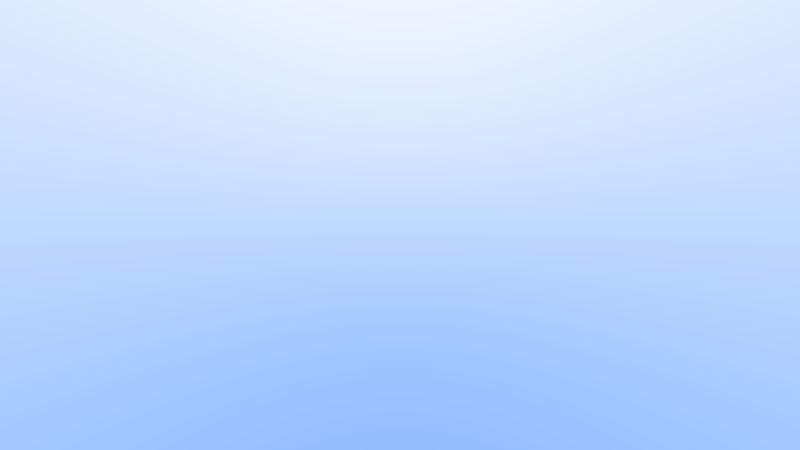
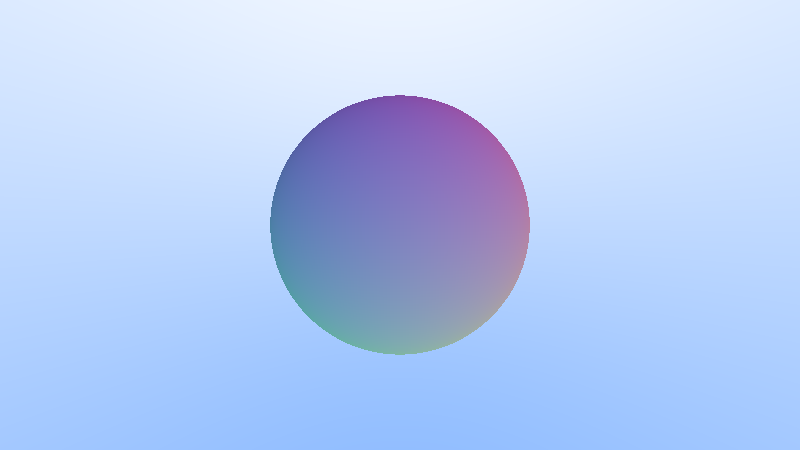
implement barebones raytracer WIP

Changed region(s): [[0.3125, 0.1867, 0.6875, 0.8089]]

diff --git a/examples/random_scene.rs b/examples/random_scene.rs
@@ -1,0 +1,128 @@
+extern crate raytracer;
+extern crate rand;
+extern crate rayon;
+extern crate indicatif;
+
+use std::f64;
+
+use raytracer::structures::vec3::Vec3;
+use raytracer::structures::ray::Ray;
+
+use raytracer::materials::Material;
+use raytracer::materials::Scatterable;
+use raytracer::materials::lambertian::Lambertian;
+use raytracer::materials::metal::Metal;
+use raytracer::materials::dielectric::Dielectric;
+
+use raytracer::objects::sphere::Sphere;
+use raytracer::objects::camera::Camera;
+use raytracer::objects::{Hittable, HittableList, HitRecord};
+
+use raytracer::io::write::gen_ppm;
+
+use rand::Rng;
+
+use rayon::iter::{IntoParallelIterator, ParallelIterator};
+
+use indicatif::{ProgressBar, ProgressStyle};
+
+fn color (r: &Ray, world: &Hittable, depth: u64) -> Vec3 {
+    let mut rec: HitRecord = HitRecord::new();
+    if world.intersect(&r, 0.0001, f64::MAX, &mut rec)  {
+        let mut scattered: Ray = Ray::new(Vec3::new(0.0, 0.0, 0.0), Vec3::new(0.0, 0.0, 0.0));
+        let mut attenuation: Vec3 = Vec3::new(0.0, 0.0, 0.0);
+        if depth > 0 && rec.material().scatter(r, &mut rec, &mut attenuation, &mut scattered) {
+            return attenuation * color(&scattered, world, depth-1);
+        } else {
+            return Vec3::new(0.0, 0.0, 0.0);
+        }
+    } else {
+        let unit_direction: Vec3 = r.direction().unit_vector();
+        let t: f64 = 0.5*(unit_direction.y() + 1.0);
+        return (1.0-t)*Vec3::new(1.0, 1.0, 1.0) + t*Vec3::new(0.5, 0.7, 1.0);
+        // return Vec3::new(0.5, 0.5, 0.5);
+    }
+}
+
+fn random_scene() -> HittableList {
+    let mut rng = rand::thread_rng();
+    
+    let mut list: HittableList = HittableList::new();
+    list.add_sphere(Sphere::new(Vec3::new(0.0, -1000.0, 0.0), 
+        1000.0, Material::Lambertian(Lambertian::new(Vec3::new(0.5, 0.5, 0.5)))));
+
+    for a in -11..11 {
+        for b in -11..11 {
+            let choose_mat: f64 = rng.gen::<f64>();
+            let center: Vec3 = Vec3::new(a as f64 + 0.9 * rng.gen::<f64>(), 
+                0.2, b as f64 + 0.9 * rng.gen::<f64>());
+            if (center - Vec3::new(4.0, 0.2, 0.0)).length() > 0.9 {
+                if choose_mat < 0.8 {  // diffuse
+                    list.add_sphere(Sphere::new(center, 0.2, 
+                        Material::Lambertian(Lambertian::new(Vec3::new(
+                            rng.gen::<f64>()*rng.gen::<f64>(), 
+                            rng.gen::<f64>()*rng.gen::<f64>(), 
+                            rng.gen::<f64>()*rng.gen::<f64>())))));
+                } else if choose_mat < 0.95 {  //metal
+                    list.add_sphere(Sphere::new(center, 0.2, 
+                        Material::Metal(Metal::new(Vec3::new(
+                            0.5 * (1.0 + rng.gen::<f64>()), 
+                            0.5 * (1.0 + rng.gen::<f64>()), 
+                            0.5 * (1.0 + rng.gen::<f64>())),
+                            0.5 * rng.gen::<f64>()))));
+                } else {  // dielectric
+                    list.add_sphere(Sphere::new(center, 0.2, 
+                        Material::Dielectric(Dielectric::new(1.5))));
+                }
+            }
+
+            list.add_sphere(Sphere::new(Vec3::new(0.0, 1.0, 0.0), 1.0, 
+                Material::Dielectric(Dielectric::new(1.5))));
+            list.add_sphere(Sphere::new(Vec3::new(-4.0, 1.0, 0.0), 1.0, 
+                Material::Lambertian(Lambertian::new(Vec3::new(0.4, 0.4, 0.1)))));
+            list.add_sphere(Sphere::new(Vec3::new(4.0, 1.0, 0.0), 1.0, 
+                Material::Metal(Metal::new(Vec3::new(0.7, 0.6, 0.5), 0.0))));
+        }
+    }
+
+    list
+}
+
+fn main() {
+    let filename = "outputs/one_weekend.png".to_string();
+
+    let nx: u64 = 1200;
+    let ny: u64 = 800;
+    let ns: u64 = 1000;
+
+    let cam: Camera = Camera::new(Vec3::new(13.0, 2.0, 3.0), Vec3::new(0.0, 0.0, 0.0), 
+    Vec3::new(0.0, 1.0, 0.0), 20.0, (nx as f64)/(ny as f64), 0.1, 10.0);
+
+    let world: HittableList = random_scene();
+
+    let bar = ProgressBar::new(ny);
+    bar.set_style(ProgressStyle::default_bar().template("[{elapsed} elapsed] {wide_bar:.cyan/white} {percent}% [{eta} remaining] [rendering]"));
+
+    let scene: Vec<Vec<Vec3>> = (0..ny).into_par_iter().map(|y_rev| {
+        let y: f64 = ny as f64 - y_rev as f64 - 1.0;
+        let row: Vec<Vec3> = (0..nx).into_par_iter().map(|x| {
+            let mut color_vector: Vec3 = Vec3::new(0.0, 0.0, 0.0);
+            for _s in 0..ns {
+                let u: f64 = (x as f64 + rand::random::<f64>()) / nx as f64;
+                let v: f64 = (y as f64 + rand::random::<f64>()) / ny as f64;
+                let r: Ray = cam.get_ray(u, v);
+                color_vector = color_vector + color(&r, &world, 10);
+            }
+            color_vector = color_vector/ns as f64;
+            color_vector = 255.99*Vec3::new(color_vector.r().sqrt(), color_vector.g().sqrt(), color_vector.b().sqrt());
+            color_vector.colorize();
+            color_vector
+        }).collect();
+        bar.inc(1);
+        row
+    }).collect();
+
+    bar.finish();
+
+    gen_ppm(scene, filename);
+}

diff --git a/src/hittable/sphere.rs b/src/hittable/sphere.rs
@@ -1,0 +1,51 @@
+use nalgebra::{Dot, Norm};
+
+use crate::Vec3;
+use crate::Vec;
+use super::{Hittable, HitRecord};
+
+use crate::ray::Ray;
+use crate::Float;
+
+#[derive(Copy, Clone)]
+pub struct Sphere {
+    pub center: Vec3<Float>,
+    pub radius: Float,
+    pub color: Vec3<Float>
+}
+
+impl Sphere {
+    fn center(&self) -> &Vec3<Float> {&self.center}
+}
+
+impl Hittable for Sphere {
+    fn hit_time(&self, ray: &Ray) -> Option<HitRecord> {
+        // TODO: return time/None, later keep track of shortest collision time for ray
+        // and also keep track of shortest collision Hittable. Then only calc
+        // normal for shortest
+
+        // CHECK: do I need t min t max and other root?
+        let oc = *ray.origin() - self.center;
+        let dir2 = ray.dir().sqnorm();
+        let proj = oc.dot(ray.dir());
+        let c = oc.sqnorm() - self.radius * self.radius;
+        let discriminant = proj * proj - dir2 * c;
+        if discriminant < 0. {
+            return None;
+        } else {
+            let t = -(proj + discriminant.sqrt()) / dir2;
+            return Some(HitRecord{
+                pos: ray.at(t),
+                normal: None,
+                time: t,
+                ray: *ray,
+            })
+        }
+    }
+
+    fn compute_normal(&self, mut hit: &mut HitRecord) {
+        let outward_normal = (hit.pos - self.center) / self.radius;
+        let is_internal = hit.ray.dir().dot(&outward_normal) < 0.;
+        hit.normal = if is_internal { Some(outward_normal) } else { Some(-outward_normal) };
+    }
+}

diff --git a/src/camera.rs b/src/camera.rs
@@ -1,0 +1,49 @@
+use nalgebra::{Cross, Norm};
+
+use crate::Float;
+use crate::Vec3;
+use std::f64::consts::PI;
+
+pub struct Camera {
+    lower_left_corner: Vec3<Float>,
+    horizontal: Vec3<Float>,
+    vertical: Vec3<Float>,
+    origin: Vec3<Float>,
+    lens_radius: f64,
+
+    u: Vec3<Float>,
+    v: Vec3<Float>,
+    w: Vec3<Float>,
+}
+
+impl Camera {
+    pub fn new(lookfrom: Vec3<Float>, lookat: Vec3<Float>, vup: Vec3<Float>, vfov: Float,
+            aspect: Float, aperture: Float, focus_dist: Float) -> Camera {
+
+        let lens_radius = aperture/2.0;
+        let theta = vfov * PI; 
+        let half_height = (theta/2.0).tan();
+        let half_width = aspect * half_height;
+
+        let origin = lookfrom;
+
+        let w = (lookfrom - lookat).normalize();
+        let u = vup.cross(&w).normalize();
+        let v = w.cross(&u);
+
+        let lower_left_corner = origin - focus_dist * (half_width * u + half_height * v + w);
+        let horizontal = 2.0 * half_width * focus_dist * u;
+        let vertical = 2.0 * half_height * focus_dist * v;
+
+        Camera {
+            lower_left_corner : lower_left_corner,
+            horizontal : horizontal,
+            vertical : vertical,
+            origin : origin,
+            lens_radius : lens_radius,
+            u : u,
+            v : v,
+            w : w,
+        }
+    }
+}

diff --git a/src/main.rs b/src/main.rs
@@ -1,16 +1,29 @@
-use nalgebra::{Norm};
+use hittable::sphere;
+use nalgebra::{Dot, Norm};
 use nalgebra::Vec3 as Vec3;
+use ray::Ray;
 
 extern crate image;
 mod ray;
-mod intersectable;
+mod hittable;
+mod scene;
+mod io;
+mod camera;
 type Float = f64;
+type Vec = Vec3<Float>;
+type Color = Vec3<Float>;
 
 fn main() {
     make_background();
 }
 
-fn ray_color(ray: ray::Ray) -> Vec3<Float> {
+fn ray_color(ray: ray::Ray) -> Color {
+    let t = sphere_collision_time(&Vec::new(0., 0., -1.), 0.5, ray);
+
+    if t > 0. {
+        let n = ray.at(t) - Vec::new(0., 0., -1.);
+        return 0.5 * Color::new(n.x + 1., n.y + 1., n.z + 1.);
+    }
     let unit_dir = ray.dir().normalize();
     let t = 0.5 * (unit_dir.y + 1.0);
     Vec3::new(1.0, 1.0, 1.0) * (1.0 - t) 
@@ -59,4 +72,17 @@ fn make_background() {
 
     println!("Finished");
     imgbuf.save("./images/background.png").unwrap();
+}
+
+fn sphere_collision_time(center: &Vec, radius: Float, ray: Ray) -> Float {
+    let oc = *ray.origin() - *center;
+    let dir2 = ray.dir().sqnorm();
+    let proj = oc.dot(ray.dir());
+    let c = oc.sqnorm() - radius * radius;
+    let discriminant = proj * proj - dir2 * c;
+    if discriminant < 0. {
+        return -1.;
+    } else {
+        return (-proj - discriminant.sqrt()) / dir2;
+    }
 }

diff --git a/src/scene.rs b/src/scene.rs
@@ -1,0 +1,52 @@
+use crate::image::DynamicImage;
+use crate::hittable::{sphere::Sphere, Hittable};
+use crate::{Vec3, Float};
+use crate::image::GenericImageView;
+
+pub struct Scene<T>
+where T: Hittable + Copy
+{
+    pub width: u32,
+    pub height: u32,
+    pub fov: f64,
+    pub hittables: Vec<T> // TODO: make this a vector of references with lifetimes
+}
+
+//TODO: Fix, polymorphism
+impl<T> Scene<T> 
+where T: Hittable + Copy
+{   
+    pub fn new(width: u32, height: u32, fov: Float) -> Scene<T> {
+        Scene {
+            width: width,
+            height: height,
+            fov: fov,
+            hittables: Vec::new(),
+        }
+    }
+
+    pub fn add_hittable(&mut self, hittable: &T) {
+        self.hittables.push(*hittable);
+    }
+
+    pub fn render(&self) -> DynamicImage {
+        DynamicImage::new_rgb8(self.width, self.height)
+    }
+}
+
+#[test]
+fn can_render_scene() {
+    let mut scene = Scene::new(800, 600, 90.);
+
+    let sphere = Sphere {
+        center: Vec3::new(0.0, 0.0, -5.0),
+        radius: 1.0,
+        color: Vec3::new(0.4, 1.0, 0.4)
+    };
+
+    scene.add_hittable(&sphere);
+
+    let img = scene.render();
+    assert_eq!(scene.width, img.width());
+    assert_eq!(scene.height, img.height());
+}

diff --git a/src/hittable.rs b/src/hittable.rs
@@ -1,0 +1,16 @@
+use crate::{Float, Vec};
+use crate::ray::Ray;
+
+pub mod sphere;
+
+pub struct HitRecord {
+    pub pos: Vec,
+    pub normal: Option<Vec>,
+    pub time: Float,
+    pub ray: Ray,
+}
+
+pub trait Hittable {
+    fn hit_time(&self, ray: &Ray) -> Option<HitRecord>;
+    fn compute_normal(&self, hit: &mut HitRecord);
+}

diff --git a/src/ray.rs b/src/ray.rs
@@ -25,6 +25,7 @@ impl Ray {
     {
         self.origin + self.dir * t
     }
+
 }
 
 #[cfg(test)]
